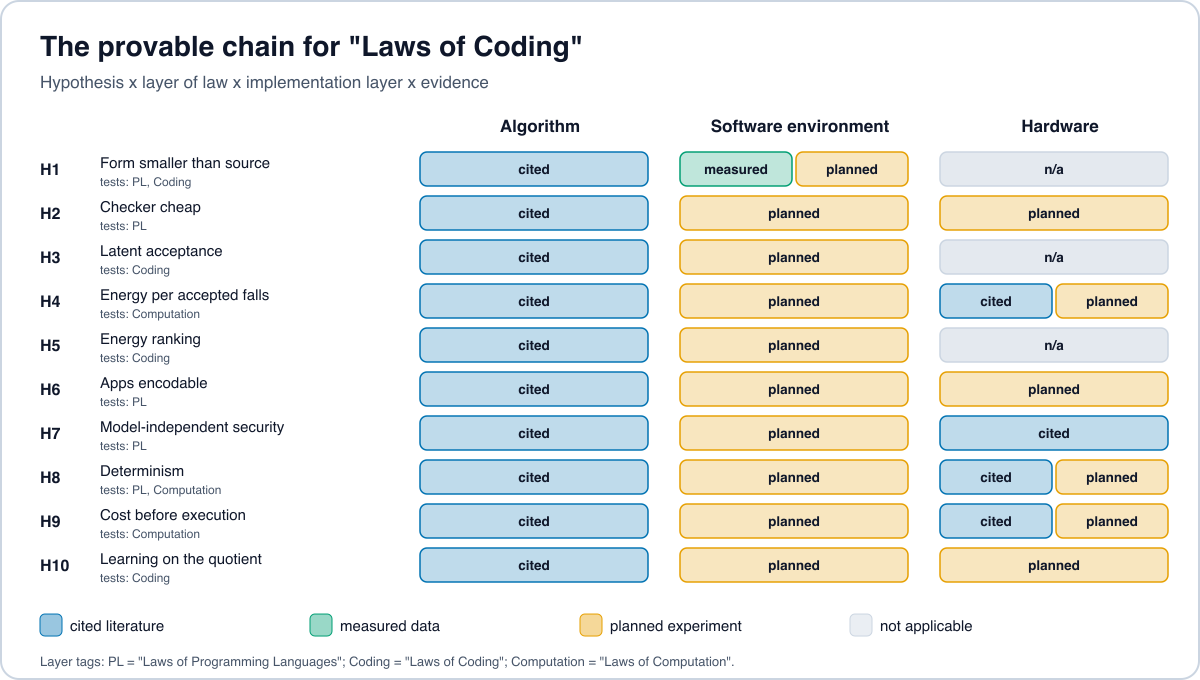
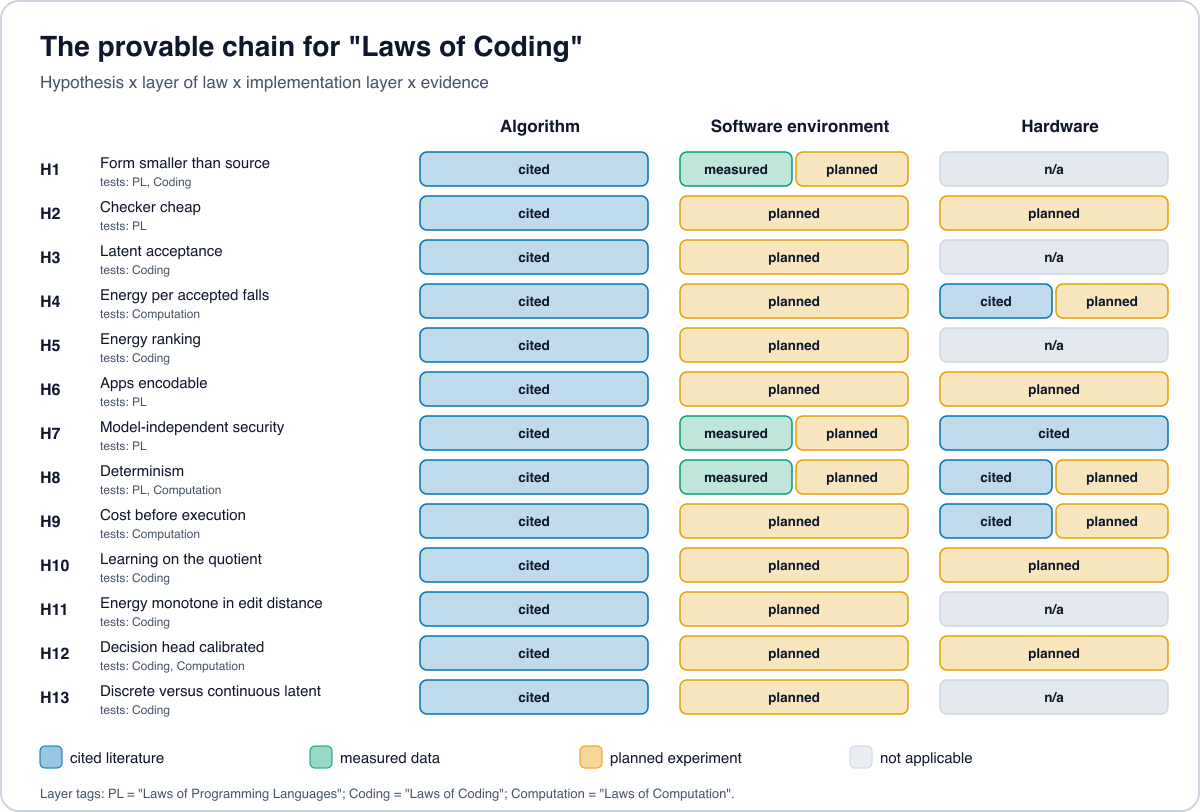
rce-jepa: lead with what exists; proposer section (steer/render, real 14-line Form, architecture figure, data tiers, decision-model class with own decision head, convergence table, specification cost, H11-H13, RJ-F1..F5, risks); chain table/figure to H13 with OpenIE measured cells for H7/H8; 83-fami

diff --git a/scripts/figures/rce_jepa_proposer.py b/scripts/figures/rce_jepa_proposer.py
@@ -1,0 +1,41 @@
+# Architecture figure for the RCE-JEPA proposer section. Run: python3 scripts/figures/rce_jepa_proposer.py
+from xml.sax.saxutils import escape as E
+import subprocess,os
+OUT=os.path.join(os.path.dirname(os.path.abspath(__file__)),'..','..','public','figures','rce-jepa')
+F="Inter, 'DejaVu Sans', Helvetica, Arial, sans-serif"
+INK,MUTED,EDGE='#0f172a','#475569','#cbd5e1'
+def T(x,y,t,s=16,w=400,f=INK,a='start'):
+    return f'<text x="{x}" y="{y}" font-family="{F}" font-size="{s}" font-weight="{w}" fill="{f}" text-anchor="{a}">{E(t)}</text>'
+def box(x,y,w,h,c,title,lines):
+    o=[f'<rect x="{x}" y="{y}" width="{w}" height="{h}" rx="12" fill="{c}" fill-opacity="0.12" stroke="{c}" stroke-width="2"/>',T(x+w/2,y+28,title,17,800,INK,'middle')]
+    for i,l in enumerate(lines): o.append(T(x+w/2,y+52+i*21,l,14,400,MUTED,'middle'))
+    return o
+def arrow(x1,y1,x2,y2,c='#334155'):
+    return f'<line x1="{x1}" y1="{y1}" x2="{x2}" y2="{y2}" stroke="{c}" stroke-width="2.5" marker-end="url(#a)"/>'
+W,H=1500,760
+b=['<defs><marker id="a" viewBox="0 0 10 10" refX="9" refY="5" markerWidth="8" markerHeight="8" orient="auto"><path d="M0,0 L10,5 L0,10 z" fill="#334155"/></marker></defs>',
+   T(40,56,'RCE-JEPA: the model steers, the engine renders',28,800),
+   T(40,88,'Learned and untrusted inside the dashed region; built and measured outside it. Only the gate admits.',17,400,MUTED)]
+b.append('<rect x="30" y="112" width="1010" height="560" rx="18" fill="none" stroke="#E69F00" stroke-width="2.5" stroke-dasharray="12 8"/>')
+b.append(T(50,140,'LEARNED, UNTRUSTED (proposers)',14,800,'#B07500'))
+L,Bl,G,Pk='#E69F00','#0072B2','#009E73','#CC79A7'
+b+=box(60,160,300,120,L,'Intent encoder',['sigma(iota): required traces,','contracts, tests, text  ->  z_iota'])
+b+=box(400,160,300,120,L,'Proposer (inverse model)',['(z_iota, z_f) -> typed Form edit','fill hole, add rule, change guard'])
+b+=box(740,160,280,120,Bl,'Exact rollout delta',['built engine, no model:','trace tau(f) on example events'])
+b+=box(400,330,300,140,L,'Form encoder + energy',['(f, tau(f)) -> z_f','E = alpha V + beta d + gamma C','alpha, beta, gamma calibrated per run'])
+b+=box(60,330,300,140,L,'Tree search',['beam or tree over edits,','exact delta at every node,','not CEM (space is discrete)'])
+b+=box(740,330,280,140,Pk,'Decision head',['small decision model trained','on gate receipts: Choice per','hole, calibrated p_i; a proposer'])
+b.append(T(535,515,'Every box in this region may be wrong. None of them can admit a program.',16,700,'#B07500','middle'))
+b.append(T(535,540,'Security never depends on any model, hosted or local.',16,700,'#B07500','middle'))
+b+=box(1090,160,370,200,G,'GATE (built, measured)',['contract check, shadow replay,','schema, Kani certificate,','Z3 proof for rewrites','accept -> promote -> receipt (est_j)','reject -> named broken rule'])
+b+=box(1090,400,370,170,G,'Engine (built, measured)',['replay bit for bit (T3)','projections: Rust, WASM, Python,','XState, SCXML (T9-F, tested)','promoted handler closes the shape'])
+b+=[arrow(360,220,398,220),arrow(700,220,738,220),arrow(880,280,700,360),arrow(400,400,362,400),
+    arrow(700,400,738,400),arrow(1020,400,1088,330),arrow(1275,360,1275,398)]
+b.append('<path d="M 1090 345 C 1060 660, 260 660, 210 474" fill="none" stroke="#D55E00" stroke-width="2.5" stroke-dasharray="8 6" marker-end="url(#a)"/>')
+b.append(T(640,615,'rejection: broken rule fed back, search re-ranks',14,600,'#D55E00','middle'))
+b.append(T(40,H-48,'Abbreviations: delta, transition function; tau(f), trace of Form f; sigma(iota), specification of intent iota; V, checker violations; d, trace distance; C, predicted cost in joules;',13,400,MUTED))
+b.append(T(40,H-26,'CEM, cross-entropy method; Kani, a Rust model checker; Z3, an SMT solver; est_j, estimated joules. A design diagram, not data.',13,400,MUTED))
+svg=f'<svg xmlns="http://www.w3.org/2000/svg" width="{W}" height="{H}" viewBox="0 0 {W} {H}"><title>RCE-JEPA architecture</title><rect x="1" y="1" width="{W-2}" height="{H-2}" rx="18" fill="#fff" stroke="{EDGE}" stroke-width="2"/>'+''.join(b)+'</svg>'
+open(f'{OUT}/architecture.svg','w').write(svg)
+subprocess.run(['rsvg-convert','-w',str(W),'-o',f'{OUT}/architecture.png',f'{OUT}/architecture.svg'],check=True)
+print('ok')

diff --git a/scripts/figures/rce_jepa_eras_chain.py b/scripts/figures/rce_jepa_eras_chain.py
@@ -41,10 +41,10 @@ save('eras',W,H,b,'Five eras toward "Laws of Computation"')
 
 # chain
 C,Mc,P,N='#0072B2','#009E73','#E69F00','#cbd5e1'
-TAG={'H1':'PL, Coding','H2':'PL','H3':'Coding','H4':'Computation','H5':'Coding','H6':'PL','H7':'PL','H8':'PL, Computation','H9':'Computation','H10':'Coding'}
-rows=[('H1','Form smaller than source','C','MP','N'),('H2','Checker cheap','C','P','P'),('H3','Latent acceptance','C','P','N'),('H4','Energy per accepted falls','C','P','CP'),('H5','Energy ranking','C','P','N'),('H6','Apps encodable','C','P','P'),('H7','Model-independent security','C','P','C'),('H8','Determinism','C','P','CP'),('H9','Cost before execution','C','P','CP'),('H10','Learning on the quotient','C','P','P')]
+TAG={'H1':'PL, Coding','H2':'PL','H3':'Coding','H4':'Computation','H5':'Coding','H6':'PL','H7':'PL','H8':'PL, Computation','H9':'Computation','H10':'Coding','H11':'Coding','H12':'Coding, Computation','H13':'Coding'}
+rows=[('H1','Form smaller than source','C','MP','N'),('H2','Checker cheap','C','P','P'),('H3','Latent acceptance','C','P','N'),('H4','Energy per accepted falls','C','P','CP'),('H5','Energy ranking','C','P','N'),('H6','Apps encodable','C','P','P'),('H7','Model-independent security','C','MP','C'),('H8','Determinism','C','MP','CP'),('H9','Cost before execution','C','P','CP'),('H10','Learning on the quotient','C','P','P'),('H11','Energy monotone in edit distance','C','P','N'),('H12','Decision head calibrated','C','P','P'),('H13','Discrete versus continuous latent','C','P','N')]
 col={'C':C,'M':Mc,'P':P,'N':N}; lab={'C':'cited','M':'measured','P':'planned','N':'n/a'}
-W,H=1200,680; b=[T(40,56,'The provable chain for "Laws of Coding"',28,800),T(40,88,'Hypothesis x layer of law x implementation layer x evidence',17,400,MUTED)]
+W,H=1200,812; b=[T(40,56,'The provable chain for "Laws of Coding"',28,800),T(40,88,'Hypothesis x layer of law x implementation layer x evidence',17,400,MUTED)]
 cx=[420,680,940]; cw=240
 for k,n in enumerate(['Algorithm','Software environment','Hardware']): b.append(T(cx[k]+cw/2,132,n,17,700,INK,'middle'))
 for r,(h,d,*cells) in enumerate(rows):
@@ -54,7 +54,7 @@ for r,(h,d,*cells) in enumerate(rows):
         for q,pc in enumerate(parts):
             b.append(f'<rect x="{cx[k]+q*pw}" y="{y+4}" width="{pw-4}" height="34" rx="7" fill="{col[pc]}" fill-opacity="{0.25 if pc!="N" else 0.5}" stroke="{col[pc]}" stroke-width="1.5"/>')
             b.append(T(cx[k]+q*pw+(pw-4)/2,y+26,lab[pc],13.5,600,INK,'middle'))
-y=148+10*44+26
+y=148+len(rows)*44+26
 b.append(T(40,H-14,'Layer tags: PL = "Laws of Programming Languages"; Coding = "Laws of Coding"; Computation = "Laws of Computation".',13,400,MUTED))
 for q,(k,n) in enumerate([('C','cited literature'),('M','measured data'),('P','planned experiment'),('N','not applicable')]):
     b.append(f'<rect x="{40+q*270}" y="{y}" width="22" height="22" rx="5" fill="{col[k]}" fill-opacity="0.4" stroke="{col[k]}"/>'); b.append(T(70+q*270,y+17,n,15))
